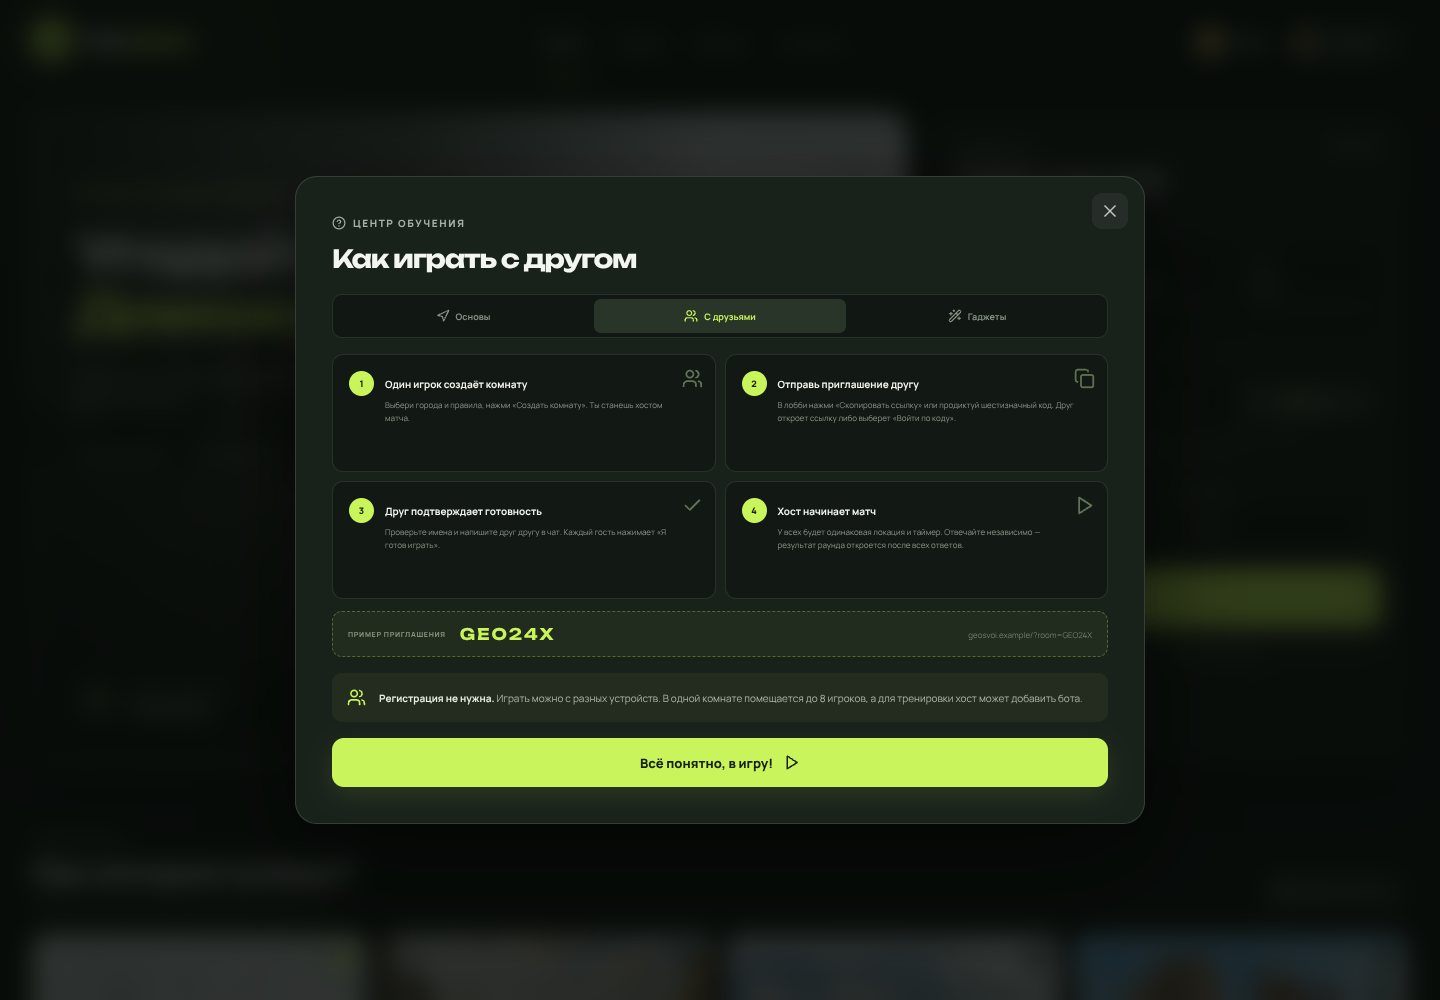
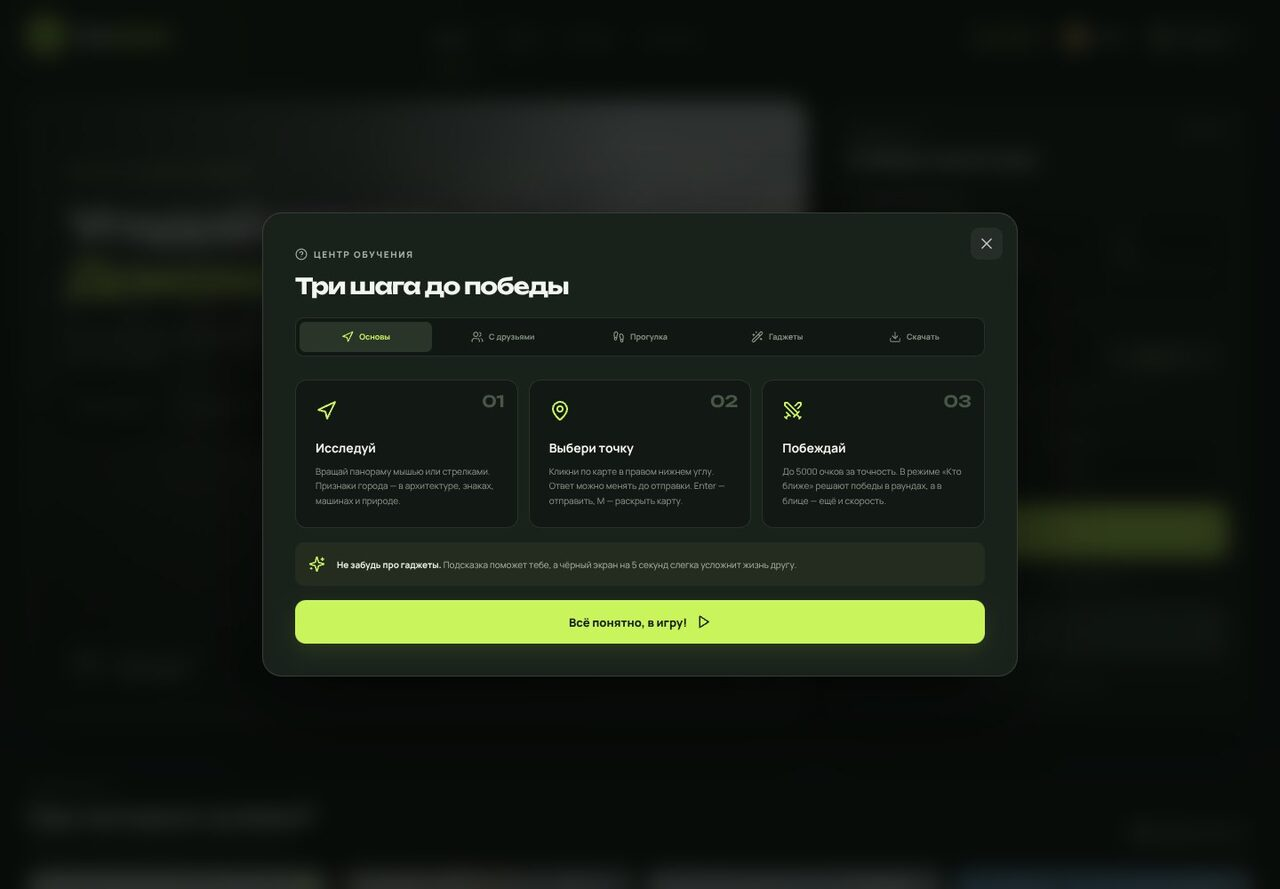
feat: add download tutorial tab and mobile access
- add a fifth "Скачать" tab to the in-app learning center with four
  production install steps and a link into the download center
- expose "Как играть и установить" on the main page because the top
  navigation is hidden on phones
- keep tutorial tabs scrollable on narrow screens and style inline code
- refresh tutorial screenshots and document the new guide in README,
  HOW_TO_PLAY, DOWNLOAD and 1.1.1 release notes

diff --git a/src/components/MainMenu.tsx b/src/components/MainMenu.tsx
@@ -33,7 +33,7 @@ export default function MainMenu({ game }: { game: GameConnection }) {
   const [joinOpen, setJoinOpen] = useState(false);
   const [nameOpen, setNameOpen] = useState(false);
   const [rulesOpen, setRulesOpen] = useState(false);
-  const [rulesTab, setRulesTab] = useState<'game' | 'friends' | 'walk' | 'gadgets'>('game');
+  const [rulesTab, setRulesTab] = useState<'game' | 'friends' | 'walk' | 'gadgets' | 'download'>('game');
   const [joinCode, setJoinCode] = useState(() => new URLSearchParams(location.search).get('room')?.toUpperCase() || '');
   const [draftName, setDraftName] = useState(game.name);
   const citiesRef = useRef<HTMLElement>(null);
@@ -163,6 +163,7 @@ export default function MainMenu({ game }: { game: GameConnection }) {
               <span><b>Погулять с другом</b><small>Любые места вместе · без таймера и очков</small></span>
               <ArrowRight size={18} />
             </button>
+            <button className="menu-rules-link" onClick={() => setRulesOpen(true)}><CircleHelp size={15} /> Как играть и установить</button>
           </aside>
         </section>
 
@@ -222,12 +223,13 @@ export default function MainMenu({ game }: { game: GameConnection }) {
       {rulesOpen && (
         <Modal onClose={() => setRulesOpen(false)} className="rules-modal" label="Обучение игре">
           <span className="eyebrow"><CircleHelp size={14} /> ЦЕНТР ОБУЧЕНИЯ</span>
-          <h2>{rulesTab === 'game' ? 'Три шага до победы' : rulesTab === 'friends' ? 'Как играть с другом' : rulesTab === 'walk' ? 'Свободная прогулка' : 'Гаджеты и управление'}</h2>
+          <h2>{rulesTab === 'game' ? 'Три шага до победы' : rulesTab === 'friends' ? 'Как играть с другом' : rulesTab === 'walk' ? 'Свободная прогулка' : rulesTab === 'download' ? 'Как установить игру' : 'Гаджеты и управление'}</h2>
           <div className="rules-tabs" role="tablist">
             <button className={rulesTab === 'game' ? 'active' : ''} onClick={() => setRulesTab('game')}><Navigation size={14} /> Основы</button>
             <button className={rulesTab === 'friends' ? 'active' : ''} onClick={() => setRulesTab('friends')}><Users size={14} /> С друзьями</button>
             <button className={rulesTab === 'walk' ? 'active' : ''} onClick={() => setRulesTab('walk')}><Footprints size={14} /> Прогулка</button>
             <button className={rulesTab === 'gadgets' ? 'active' : ''} onClick={() => setRulesTab('gadgets')}><WandSparkles size={14} /> Гаджеты</button>
+            <button className={rulesTab === 'download' ? 'active' : ''} onClick={() => setRulesTab('download')}><Download size={14} /> Скачать</button>
           </div>
           {rulesTab === 'game' && <>
             <div className="rules-list">
@@ -255,6 +257,16 @@ export default function MainMenu({ game }: { game: GameConnection }) {
               <div><span>4</span><section><b>Сохраняй панорамы</b><p>Звезда добавляет место в избранное. В Google сохраняются точный panoId и направление взгляда, чтобы вернуться позже.</p></section><Sparkles size={21} /></div>
             </div>
             <div className="rules-tip"><Footprints size={19} /><span><b>Друг может подключиться после старта.</b> Он появится рядом с текущим местом хоста. Избранное хранится локально в твоём браузере.</span></div>
+          </>}
+          {rulesTab === 'download' && <>
+            <div className="friend-tutorial download-steps">
+              <div><span>1</span><section><b>Скачай production ZIP</b><p>Кнопка «Скачать» в шапке открывает центр загрузок. Внутри архива — уже собранный клиент, сервер и документация.</p></section><Download size={21} /></div>
+              <div><span>2</span><section><b>Установи Node.js</b><p>Нужен Node.js 20.19 или новее, рекомендуется 22 LTS. Проверь версию командой <code>node --version</code>.</p></section><Globe2 size={21} /></div>
+              <div><span>3</span><section><b>Распакуй и запусти</b><p>Открой терминал в папке архива и выполни <code>npm ci --omit=dev</code>, затем <code>npm start</code>.</p></section><Play size={21} /></div>
+              <div><span>4</span><section><b>Открой игру</b><p>Перейди на <code>http://localhost:3000</code>. Для игры с другом нужен общий адрес сервера, а не localhost на разных устройствах.</p></section><Check size={21} /></div>
+            </div>
+            <div className="rules-tip"><Download size={19} /><span><b>RAR не нужен.</b> ZIP открывается стандартными средствами Windows, macOS и Linux. ZIP исходников нужен только для разработки: <code>npm ci</code> и <code>npm run dev</code>.</span></div>
+            <button type="button" className="secondary-button rules-download-cta" onClick={() => { setRulesOpen(false); setDownloadOpen(true); }}>Открыть центр загрузок <ArrowRight size={16} /></button>
           </>}
           {rulesTab === 'gadgets' && <>
             <div className="gadget-guide">

diff --git a/src/styles.css b/src/styles.css
@@ -237,6 +237,11 @@ button:focus-visible, input:focus-visible, select:focus-visible { outline: 2px s
 .gadget-guide b { color: #dbe5d6; font-size: 9px; }
 .gadget-guide p { margin-top: 7px; color: #839083; font-size: 8px; line-height: 1.55; }
 .rules-modal > .primary-button { width: 100%; }
+.rules-modal code { padding: 1px 4px; color: #cde7bb; background: #0e1410; border-radius: 4px; font-size: .95em; white-space: nowrap; }
+.rules-download-cta { width: 100%; margin-bottom: 10px; }
+.menu-rules-link { display: flex; align-items: center; justify-content: center; gap: 7px; margin: 12px auto 0; padding: 6px; color: #9cae9c; background: transparent; font-size: 9px; font-weight: 700; }
+.menu-rules-link:hover { color: var(--lime); }
+.download-steps > div { min-height: 112px; }
 
 .shop-modal { width: min(1040px, 100%); padding: 34px; }
 .shop-heading { display: flex; align-items: flex-end; justify-content: space-between; gap: 25px; padding-right: 35px; }
@@ -837,6 +842,8 @@ button:focus-visible, input:focus-visible, select:focus-visible { outline: 2px s
   .shop-grid { grid-template-columns: 1fr; }
   .shop-item { min-height: 210px; }
   .rules-list { grid-template-columns: 1fr; }
+  .rules-tabs { overflow-x: auto; }
+  .rules-tabs button { flex: 0 0 auto; padding: 0 10px; white-space: nowrap; }
   .friend-tutorial { grid-template-columns: 1fr; }
   .gadget-guide { grid-template-columns: repeat(2, 1fr); }
   .invite-example { flex-wrap: wrap; gap: 8px 12px; }

diff --git a/src/components/DownloadModal.tsx b/src/components/DownloadModal.tsx
@@ -2,7 +2,7 @@ import { ArrowUpRight, Check, Download, ExternalLink, FileArchive, FolderOpen, G
 import { Modal } from './UI';
 
 const REPOSITORY = 'https://github.com/romanata10/the-street-view-game-by-ai-';
-const VERSION = '1.1.0';
+const VERSION = '1.1.1';
 const SOURCE_ZIP = `${REPOSITORY}/archive/refs/heads/main.zip`;
 const PRODUCTION_ZIP = `${REPOSITORY}/releases/download/v${VERSION}/geosvoi-${VERSION}-production.zip`;
 const PRODUCTION_TAR = `${REPOSITORY}/releases/download/v${VERSION}/geosvoi-${VERSION}-production.tar.gz`;

diff --git a/docs/releases/v1.1.1.md b/docs/releases/v1.1.1.md
@@ -1,0 +1,45 @@
+# ГЕОСВОИ 1.1.1 — обучение установке внутри игры
+
+Небольшое обновление обучения: теперь пошаговая установка доступна не только в центре загрузок, но и во встроенном «Как играть».
+
+## Что нового
+
+- **Вкладка «Скачать» в центре обучения** — четыре шага: production ZIP, Node.js 20.19+, `npm ci --omit=dev` и `npm start`, запуск на `http://localhost:3000`.
+- **Переход в центр загрузок** прямо из обучения: кнопка открывает production ZIP, TAR.GZ, исходники и страницу релизов.
+- **Обучение доступно на телефоне:** на главной появилась ссылка «Как играть и установить», потому что верхнее меню на узких экранах скрыто.
+- **Пояснение про форматы** — RAR не нужен; ZIP исходников нужен только для разработки с `npm run dev`.
+- Обновлены скриншоты обучения и инструкция [DOWNLOAD.ru.md](https://github.com/romanata10/the-street-view-game-by-ai-/blob/main/docs/DOWNLOAD.ru.md).
+
+## Быстрый старт
+
+```bash
+unzip geosvoi-1.1.1-production.zip
+cd geosvoi-1.1.1
+npm ci --omit=dev
+npm start
+```
+
+Либо TAR.GZ:
+
+```bash
+tar -xzf geosvoi-1.1.1-production.tar.gz
+cd geosvoi-1.1.1
+npm ci --omit=dev
+npm start
+```
+
+Откройте `http://localhost:3000`. Нужен Node.js 20.19+, рекомендуется Node.js 22 LTS.
+
+## Документация
+
+- [Как играть с друзьями](https://github.com/romanata10/the-street-view-game-by-ai-/blob/main/docs/HOW_TO_PLAY.ru.md)
+- [Как скачать и запустить](https://github.com/romanata10/the-street-view-game-by-ai-/blob/main/docs/DOWNLOAD.ru.md)
+- [Настройка Google Maps](https://github.com/romanata10/the-street-view-game-by-ai-/blob/main/docs/GOOGLE_MAPS.ru.md)
+- [Production и Docker](https://github.com/romanata10/the-street-view-game-by-ai-/blob/main/docs/DEPLOYMENT.ru.md)
+
+## Проверки
+
+- `npm run test:content` — 8 городов, 16 панорам и уникальные подсказки.
+- `npm run build` — TypeScript и Vite production build.
+- Обучение: пять вкладок, включая «Скачать»; переход из обучения в центр загрузок.
+- Сборка production ZIP/TAR.GZ, проверка архивов и запуск распакованного ZIP.

diff --git a/README.md b/README.md
@@ -20,6 +20,7 @@
 - **Очки и магазин:** подсказки, чёрный экран сопернику, ускорение, щит, удвоение очков и постоянная Оптика PRO.
 - **Результаты:** расстояния, правильная точка, ответы всех игроков, монеты и финальный подиум.
 - **Без регистрации:** профиль и рюкзак сохраняются в браузере.
+- **Обучение в игре:** вкладки «Основы», «С друзьями», «Прогулка», «Гаджеты» и «Скачать» с пошаговой установкой.
 - **Русский адаптивный интерфейс:** компьютер, планшет или телефон.
 
 ## Как играть вместе с другом
@@ -39,8 +40,8 @@
 
 В меню игры нажмите **«Скачать»**: там показаны архивы и пошаговая установка.
 
-- [Production ZIP 1.1.0](https://github.com/romanata10/the-street-view-game-by-ai-/releases/download/v1.1.0/geosvoi-1.1.0-production.zip) — готовый клиент и сервер, команда `npm run build` не нужна.
-- [Production TAR.GZ 1.1.0](https://github.com/romanata10/the-street-view-game-by-ai-/releases/download/v1.1.0/geosvoi-1.1.0-production.tar.gz) — тот же набор файлов для Linux и macOS.
+- [Production ZIP 1.1.1](https://github.com/romanata10/the-street-view-game-by-ai-/releases/download/v1.1.1/geosvoi-1.1.1-production.zip) — готовый клиент и сервер, команда `npm run build` не нужна.
+- [Production TAR.GZ 1.1.1](https://github.com/romanata10/the-street-view-game-by-ai-/releases/download/v1.1.1/geosvoi-1.1.1-production.tar.gz) — тот же набор файлов для Linux и macOS.
 - [ZIP с последними исходниками](https://github.com/romanata10/the-street-view-game-by-ai-/archive/refs/heads/main.zip) — для разработки и своей сборки.
 - [Последний релиз](https://github.com/romanata10/the-street-view-game-by-ai-/releases/latest) — все архивы и SHA-256.
 - [Полная инструкция по скачиванию](docs/DOWNLOAD.ru.md) — установка, запуск, подключение друга и решение ошибок.

diff --git a/docs/HOW_TO_PLAY.ru.md b/docs/HOW_TO_PLAY.ru.md
@@ -2,7 +2,7 @@
 
 Это пошаговое руководство для хоста и гостей. Регистрация не нужна: достаточно открыть приложение в современном браузере.
 
-В самой игре краткая версия всегда доступна через **«Как играть» → «С друзьями»**.
+В самой игре краткая версия всегда доступна через **«Как играть»**: вкладки **«С друзьями»**, **«Прогулка»** и **«Скачать»**.
 
 ![Встроенное обучение совместной игре](images/tutorial.jpg)
 
@@ -150,6 +150,10 @@
 Это отдельный совместный режим для спокойного исследования городов. В нём **нет таймера, ответов, очков, раундов и гаджетов**.
 
 ![Свободная прогулка вдвоём](images/walk.jpg)
+
+Краткая версия этих правил всегда доступна во вкладке **«Прогулка»** центра обучения.
+
+![Вкладка «Прогулка» в центре обучения](images/tutorial-walk.jpg)
 
 ### Как начать
 

diff --git a/CHANGELOG.md b/CHANGELOG.md
@@ -4,6 +4,17 @@
 
 ## [Unreleased]
 
+## [1.1.1] — 2026-11-06
+
+### Добавлено
+
+- Вкладка «Скачать» в центре обучения: четыре шага установки production ZIP и переход в центр загрузок.
+- Ссылка «Как играть и установить» на главной странице: обучение доступно и на телефоне, где верхнее меню скрыто.
+
+### Изменено
+
+- Обновлены скриншоты обучения, README и инструкция DOWNLOAD под версию 1.1.1.
+
 ## [1.1.0] — 2026-11-06
 
 ### Добавлено
@@ -49,5 +60,6 @@
 - GitHub Actions: контент, TypeScript, сборка, запуск сервера и Docker healthcheck.
 - Проверка контента через `npm run test:content`.
 
+[1.1.1]: https://github.com/romanata10/the-street-view-game-by-ai-/releases/tag/v1.1.1
 [1.1.0]: https://github.com/romanata10/the-street-view-game-by-ai-/releases/tag/v1.1.0
 [1.0.0]: https://github.com/romanata10/the-street-view-game-by-ai-/releases/tag/v1.0.0
